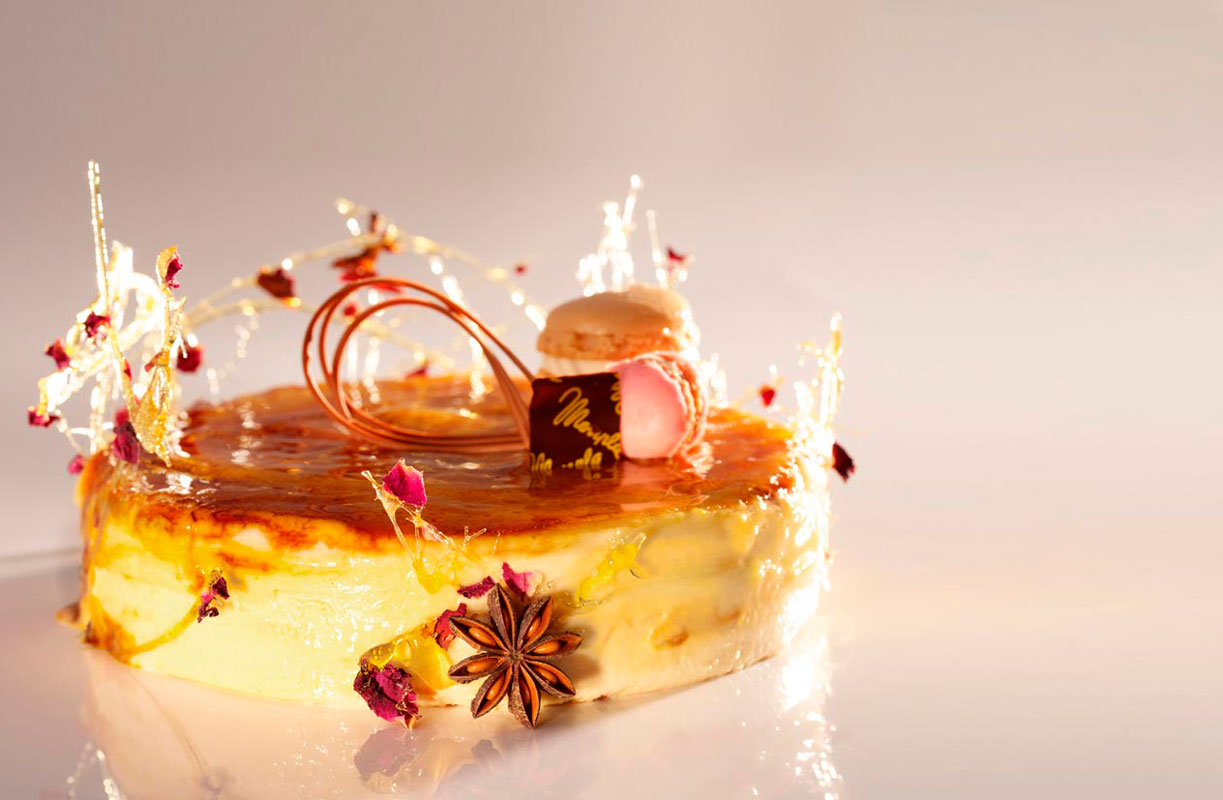
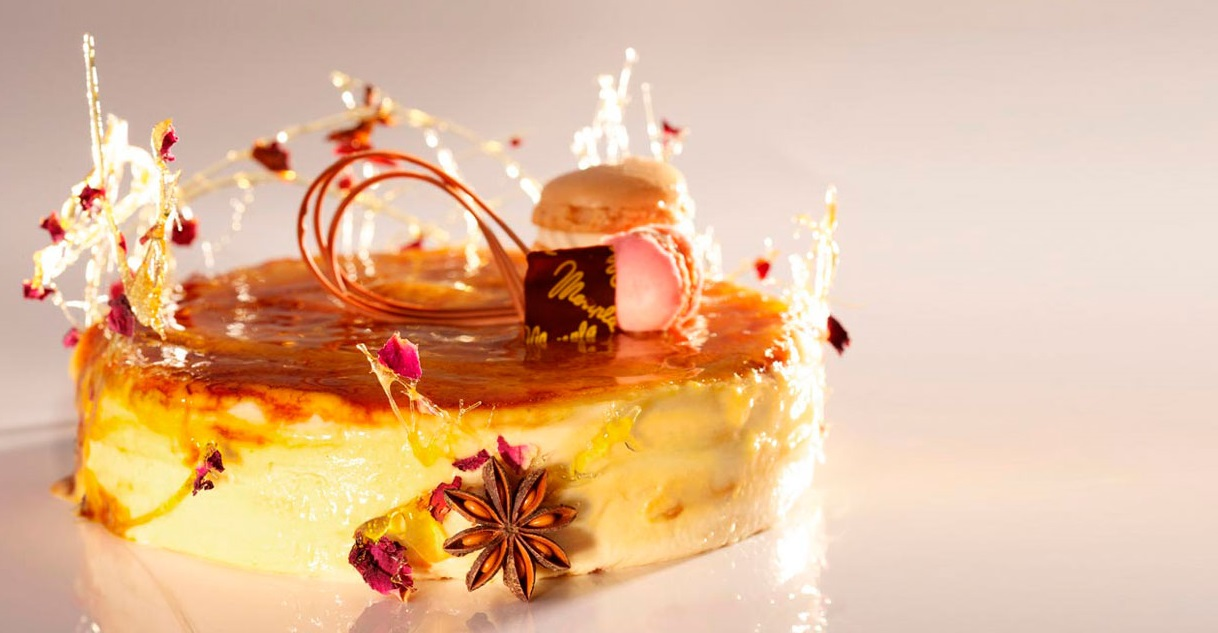
saqué el carrusel e hice cambios en el estilo de FAQ

diff --git a/css/main.css b/css/main.css
@@ -68,9 +68,7 @@ main{
 
 /*estilo del Body*/
 
-
-
-.carousel-inner img {
+/*.carousel-inner img {
 
    width: 100%;
    max-height: 500px;
@@ -80,6 +78,16 @@ main{
 height: 500px;
 
 }
+*/
+
+.imagenPrincipal{
+  width: 100%;
+}
+.imagenPrincipal img{
+  width: 100%;
+}
+
+
 
   #titulo1 {
     margin: 1rem auto;
@@ -111,17 +119,19 @@ height: 500px;
     text-align: center;
     font-family: 'Open Sans Condensed', sans-serif;
     font-weight: bold;
+    margin-top: 20px;
 }
 
 .botoncomprar {
-    text-align: center;
-    margin: auto; display: block;
-    padding: 12px;
-    color: #616E6E;
-    background-color:#BFDCDA;
-    border-radius: 10px;
-    border: none;
-    font-family: 'Open Sans Condensed', sans-serif;
+  width: 150px;
+  text-align: center;
+  margin: auto; display: block;
+  padding: 12px;
+  color: #616E6E;
+  background-color:#BFDCDA;
+  border-radius: 10px;
+  border: none;
+  font-family: 'Open Sans Condensed', sans-serif;
 
 }
 

diff --git a/css/preguntasFrecuentes.css b/css/preguntasFrecuentes.css
@@ -1,19 +1,24 @@
 /* PREGUNTAS FRECUENTES */
 /* Acordeón */
-
 body {
   background: rgba(255, 255, 255, 0.5);
   color: #616E6E;
   font-size: 1em;
   font-family: sans-serif;
 }
+
+h1{
+  text-align: center;
+  padding-top: 40px;
+}
+
 h3 {
   font-size: 1.3em;
 }
 
 
 .accordion {
-  max-width: 500px;
+  width: 80%;
   margin: 50px auto;
   box-shadow: 0 0 1px rgba(0,0,0,0.1);
 }
@@ -35,7 +40,7 @@ h3 {
 .accordion .btn {
   background-color: #BFDCDA;
   color: white;
-  font-size: 1em;
+  font-size: 25px;
   text-decoration: none;
   width: 100%;
   font-weight: bold;

diff --git a/index.php b/index.php
@@ -31,49 +31,20 @@
 
   <main>
 
-
-    <div id="demo" class="carousel slide" data-ride="carousel">
-
-      <ul class="carousel-indicators">
-        <li data-target="#demo" data-slide-to="0" class="active"></li>
-        <li data-target="#demo" data-slide-to="1"></li>
-        <li data-target="#demo" data-slide-to="2"></li>
-      </ul>
-
-      <div class="carousel-inner container">
-
-        <div class="carousel-item active">
-          <img src="img/carrusel1.jpg" alt="Los Angeles">
+    <div class="imagenPrincipal container">
+          <img src="img/carrusel50.jpg" alt="">
         </div>
-        <div class="carousel-item">
-          <img src="img/carrusel2.jpg" alt="Chicago">
-        </div>
-        <div class="carousel-item">
-          <img src="img/carrusel3.jpg" alt="New York">
-        </div>
-      </div>
 
-      <a class="carousel-control-prev" href="#demo" data-slide="prev">
-        <span class="carousel-control-prev-icon"></span>
-      </a>
-      <a class="carousel-control-next" href="#demo" data-slide="next">
-        <span class="carousel-control-next-icon"></span>
-      </a>
+    <section id="titulo1">
 
-    </div>
+        <a name="productos"><h1>Nuestra Especialidad</h1>
 
-      <section id="titulo1">
-
-          <a name="productos"><h1>Nuestra Especialidad</h1>
-
-
-
-      </section>
-
+    </section>
+    <section>
         <div class="contenedor">
 
             <?php foreach ($productos as $idProducto => $producto) { ?>
-              <article class="elemento">
+            <article class="elemento">
                 <figure>
                     <img src="<?php echo $producto['img']?>"/>
                     <figcaption class="nombreArticulo"><?php echo $producto['nombre']?></figcaption>
